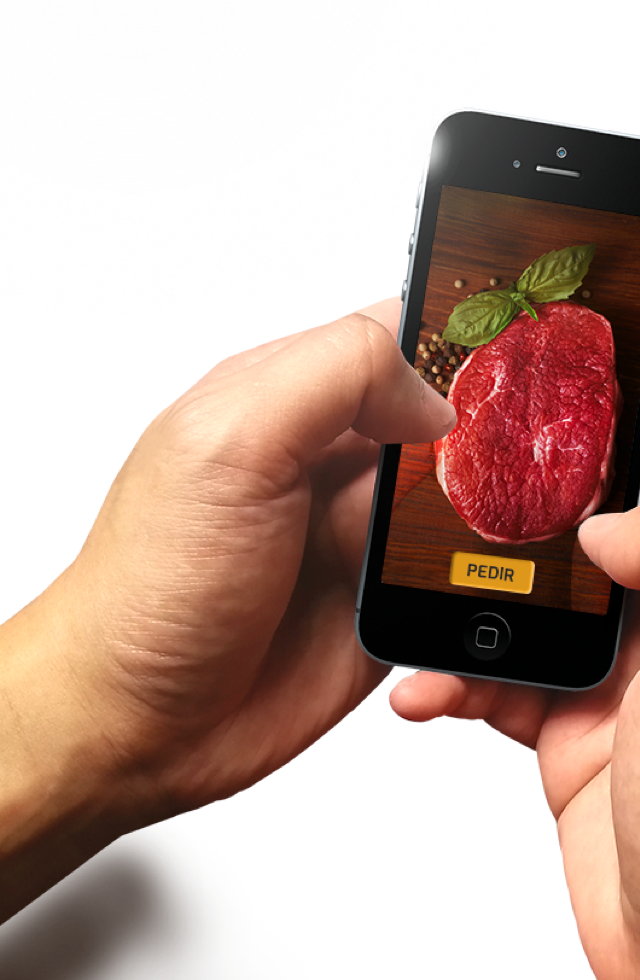
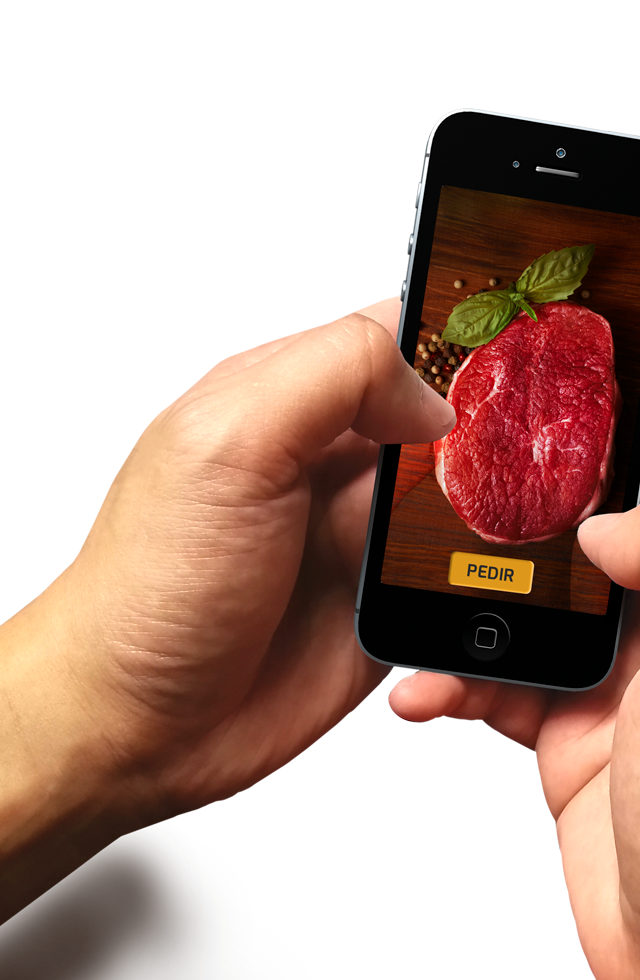
responsive seccion app

diff --git a/css/estilos.css b/css/estilos.css
@@ -1,2 +1,2 @@
 @import 'https://fonts.googleapis.com/css?family=Glegoo:400,700';
-body{font-family:'Glegoo';font-size:16px;font-weight:400}.rojo{border:solid 1px #f00}.naranja{border:solid 1px #ffa500}.verde{border:solid 1px #008000}.rosado{border:solid 1px #ffc0cb}.blanco{border:solid 2px #fff}.celeste{border:solid 1px #0ff}.azul{border:solid 1px #00f}.alfa{border:solid .1px rgba(0,0,0,0)}.textRes{color:#b11f24}.textCerdo{color:#ca8f88}.textOran{color:#f9a81a}.textGris{color:#8c8c8c}.centrar{display:flex;justify-content:center}.sepUp{margin-top:1rem}.subti2{color:#f9a81a;font-size:2.5rem;font-weight:700}.subti3{color:#f9a81a;font-size:1.5rem;font-weight:700}.subtiNegro{color:#000;font-size:3rem;font-family:'Glegoo';font-weight:700;margin:0}.sombraNav{box-shadow:0 13px 20px 0 rgba(0,0,0,0.5);width:100vw;background-color:#fff}.sombra{box-shadow:0 5px 4px 0 rgba(0,0,0,0.5)}.sombraText{text-shadow:0 2px 2px #000}.btnEntrar{border-radius:20px;background-color:#f9a81a;padding:.6rem 2.1rem}.navW{margin-left:1rem}.navbar-fixed{margin:0}.navmenu{width:100%;box-shadow:none;background-color:#fff}.navmenu ul a{color:#a7a7a7}.navmenu ul a:hover{background-color:#f9a81a;color:#fff}.logoNav{width:189px}.logo img{width:118px}.resumen{font-size:1rem;font-family:'Glegoo';color:#808080;line-height:normal}.fpresentacion{background-image:url("../img/mobile/fondoinicio@2x.jpg");background-position:center;background-repeat:no-repeat;background-size:cover;width:100vw}.carHead{background-image:url("../img/mobile/carHeadMobile@2x.jpg");background-position:center;background-repeat:no-repeat;background-size:cover;width:100vw;height:580px}.textCarnivery{margin-top:280px;text-align:center;color:#fff}.madera{background-image:url("../img/mobile/maderaBlanca@2x.jpg");background-position:center;background-repeat:no-repeat;background-size:cover;width:100vw;height:auto}.cajaBlanca{background-color:#fff;border-radius:20px}.trinche{height:850px;background-image:url("../img/trinche.png");background-repeat:no-repeat;background-size:contain;margin-top:6rem}.fondoFinde{background-image:url("../img/mobile/fFinde.jpg");background-position:center;background-repeat:no-repeat;background-size:cover;width:100vw;height:592px;display:flex;align-items:center}.logoFinde{background-image:url("../img/svg/lFinde.svg");background-position:center,center;background-repeat:no-repeat;width:80vw;height:227px}.iphone{background-image:url("../img/mobile/iPhoneCarnivery@2x.png");background-position:center;background-repeat:no-repeat;background-size:cover;height:490px}.barraNegra{background-color:#000;color:#fff;font-size:1.5rem;text-align:center;line-height:52px;width:80vw;height:52px}.icoIndustry{width:35vw}.pieMP{background-color:#e0e0e0 !important}.pieMP a{color:#000;font-size:1rem;line-height:3rem}@media screen and (min-width:768px){.fpresentacion{background-image:url("../img/fInicio.jpg")}.carHead{background-image:url("../img/fCarnivery.jpg")}.textCarnivery{margin-top:400px}#headDia{margin-top:5rem}#logoDia{padding:0}.madera{background-image:url("../img/maderaG.jpg")}.fondoFinde{background-image:url("../img/fondoFinde.jpg")}.logoFinde{position:absolute;right:50px;width:300px;margin-top:50px}#textFinde{position:absolute;bottom:-1750px;right:50px;width:300px}}@media screen and (min-width:992px){#logoDia{width:170px}.navW{margin-left:0;border:solid 1px #f00}.sizeAnima{width:80px}.cont90{width:90%}.logoFinde{right:150px}#textFinde{bottom:-2000px;right:50px;width:500px}}
+body{font-family:'Glegoo';font-size:16px;font-weight:400}.rojo{border:solid 1px #f00}.naranja{border:solid 1px #ffa500}.verde{border:solid 1px #008000}.rosado{border:solid 1px #ffc0cb}.blanco{border:solid 2px #fff}.celeste{border:solid 1px #0ff}.azul{border:solid 1px #00f}.alfa{border:solid .1px rgba(0,0,0,0)}.textRes{color:#b11f24}.textCerdo{color:#ca8f88}.textOran{color:#f9a81a}.textGris{color:#8c8c8c}.centrar{display:flex;flex-wrap:wrap;justify-content:center}.centrar2{display:flex;justify-content:space-around}.sepUp{margin-top:1rem}.subti2{color:#f9a81a;font-size:2.5rem;font-weight:700}.subti3{color:#f9a81a;font-size:1.5rem;font-weight:700}.subtiNegro{color:#000;font-size:3rem;font-family:'Glegoo';font-weight:700;margin:0}.sombraNav{box-shadow:0 13px 20px 0 rgba(0,0,0,0.5);width:100vw;background-color:#fff}.sombra{box-shadow:0 5px 4px 0 rgba(0,0,0,0.5)}.sombraText{text-shadow:0 2px 5px rgba(23,23,23,0.69)}.btnEntrar{border-radius:20px;background-color:#f9a81a;padding:.6rem 2.1rem}.navW{margin-left:1rem}.navbar-fixed{margin:0}.navmenu{width:100%;box-shadow:none;background-color:#fff}.navmenu ul a{color:#a7a7a7}.navmenu ul a:hover{background-color:#f9a81a;color:#fff}.logoNav{width:189px}.logo img{width:118px}.resumen{font-size:1rem;font-family:'Glegoo';color:#808080;line-height:normal}.fpresentacion{background-image:url("../img/mobile/fondoinicio@2x.jpg");background-position:center;background-repeat:no-repeat;background-size:cover;width:100vw}.carHead{background-image:url("../img/mobile/carHeadMobile@2x.jpg");background-position:center;background-repeat:no-repeat;background-size:cover;width:100vw;height:580px}.textCarnivery{margin-top:280px;text-align:center;color:#fff}.madera{background-image:url("../img/mobile/maderaBlanca@2x.jpg");background-position:center;background-repeat:no-repeat;background-size:cover;width:100vw;height:auto}.cajaBlanca{background-color:#fff;border-radius:20px}.trinche{height:850px;background-image:url("../img/trinche.png");background-repeat:no-repeat;background-size:contain;margin-top:6rem}.fondoFinde{background-image:url("../img/mobile/fFinde.jpg");background-position:center;background-repeat:no-repeat;background-size:cover;width:100vw;height:592px;display:flex;align-items:center}.logoFinde{background-image:url("../img/svg/lFinde.svg");background-position:center,center;background-repeat:no-repeat;width:80vw;height:227px}.iphone{background-image:url("../img/mobile/iPhoneCarnivery@2x.png");background-repeat:no-repeat;background-size:cover;height:490px}.textApp{font-size:.8rem}#logoIndustry{background-image:url("../img/logoIndustry.png");background-repeat:no-repeat;background-size:cover;height:220px;width:70%;margin:0 auto}.barraNegra{background-color:#000;color:#fff;font-size:1.5rem;text-align:center;line-height:52px;width:100vw;height:52px}.icoRes{background-image:url("../img/svg/icoRes.svg");background-repeat:no-repeat;height:140px;width:100%}.icoCerdo{background-image:url("../img/svg/icoCerdo.svg");background-repeat:no-repeat;height:140px;width:100%}.icoPollo{background-image:url("../img/svg/icoPollo.svg");background-repeat:no-repeat;height:140px;width:100%}.icoCharcu{background-image:url("../img/svg/icoCharcu.svg");background-repeat:no-repeat;height:140px;width:100%}.pieMP{background-color:#e0e0e0 !important}.pieMP a{color:#000;font-size:1rem;line-height:3rem}@media screen and (max-width:760px){.cajaiPhone{background-color:rgba(255,255,255,0.57)}}@media screen and (min-width:768px){.fpresentacion{background-image:url("../img/fInicio.jpg")}.carHead{background-image:url("../img/fCarnivery.jpg")}.textCarnivery{margin-top:400px}#headDia{margin-top:5rem}#logoDia{padding:0}.madera{background-image:url("../img/maderaG.jpg")}.fondoFinde{background-image:url("../img/fondoFinde.jpg")}.logoFinde{position:absolute;right:50px;width:300px;margin-top:50px}#textFinde{position:absolute;bottom:-1750px;right:50px;width:300px}.cajaiPhone{background-color:#fff;border-radius:1rem}.iphone{background-image:url("../img/iPhone.png");background-size:contain}#logoIndustry{background-size:cover;height:300px;width:50%}}@media screen and (min-width:992px){#logoDia{width:170px}.navW{margin-left:0;border:solid 1px #f00}.sizeAnima{width:80px}.cont90{width:90%}.logoFinde{right:150px}#textFinde{bottom:-2000px;right:50px;width:500px}#logoIndustry{width:30%;height:270px}}

diff --git a/index.html b/index.html
@@ -129,60 +129,61 @@
         </div>
       </div>
     </div><!-- SECCION APP-->
-    <div class="main-container">
-      <div class="row">
-        <h2 class="col s12 textOran">Y LO MEJOR DE TODO!</h2>
-        <p class="col s12 textGris">Tus cortes están al alcance de un solo click</p>
-      </div>
-    </div>
     <div class="main-container madera">
-      <div class="iphone"></div>
-      <div class="container">
-        <div class="col s12 center">
-          <p>Con nuestra APP podrás hacer tus pedidos desde la comodidad de tu hogar, o dónde quiera que estés! <br> Descarga la app Carnivery tanto para Android como para iOS.</p>
+      <div class="row">
+        <div class="col m6 l7 iphone hide-on-small-only"></div>
+        <div class="col m5 l4 sombra sepUp cajaiPhone"><!-- CONTIENE la caja blanca-->
+          <h3 class="col s12 textOran sombraText">Y LO MEJOR DE TODO!</h3>
+          <p class="col s6 m12 textApp">
+            Tus cortes están al alcance de un solo click <br>
+            Con nuestra APP podrás hacer tus pedidos desde la comodidad de tu hogar, o dónde quiera que estés! <br> Descarga la app Carnivery tanto para Android como para iOS.
+          </p>
+          <div class="row center">
+            <div class="col s12 centrar2"><img src="img/svg/gPlay.svg" alt="" width="50%"><img src="img/svg/appStore.svg" alt="" width="50%"></div>
+            <p class="col s12 textApp">O si prefieres puedes llamarnos a nuestra línea exclusiva de atención a cliente:</p>
+            <div class="col s12 center"><img src="img/svg/1800.svg" alt="" width="75%"></div>
+          </div>
         </div>
-      </div>
-      <div class="row center">
-        <div class="col s6"></div><img src="img/svg/gPlay.svg" alt="">
-        <div class="col s6"></div><img src="img/svg/appStore.svg" alt="">
-      </div>
-    </div>
-    <div class="main-container">
-      <div class="container center">
-        <p>O si prefieres puedes llamarnos a nuestra línea exclusiva de atención a cliente:</p>
-        <div class="center"><img src="img/svg/1800.svg" alt=""></div>
+        <div class="iphone hide-on-med-and-up"></div>
       </div>
     </div><!-- SECCION LINEA INDUSTRY-->
     <div class="main-container fpresentacion alfa">
-      <div class="row center"><img src="img/logoIndustry.png" alt="" width="70%" class="sombra"></div>
-      <div class="row center">
-        <p class="col s12">Procesamos, comercializamos y desarrollamos productos cárnicos inocuos de alta calidad, al alcance de todos los segmentos del sector HORECA e industrial en Ecuador</p>
-      </div>
-      <div class="row center">
-        <botton class="btnEntrar">entrar</botton>
+      <div class="container">
+        <div id="logoIndustry" class="sombra"></div>
+        <div class="row center">
+          <p class="col s12">Procesamos, comercializamos y desarrollamos productos cárnicos inocuos de alta calidad, al alcance de todos los segmentos del sector HORECA e industrial en Ecuador</p>
+        </div>
+        <div class="row center">
+          <botton class="btnEntrar">entrar</botton>
+        </div>
       </div>
     </div><!-- SECCION LINEAS DE PRODUCTOS-->
-    <div class="main-container">
-      <div class="row barraNegra">
-        <p>LINEAS DE PRODUCTOS</p>
+    <div class="main-container barraNegra">
+      <p>LINEAS DE PRODUCTOS</p>
+      <div class="container">
+        <div class="row center">
+          <div class="col s12 m6">
+            <div class="col s6 m6">
+              <div class="icoRes"></div>
+              <p>Res  </p>
+            </div>
+            <div class="col s6 m6">
+              <div class="icoCerdo"></div>
+              <p>Cerdo  </p>
+            </div>
+          </div>
+          <div class="col s12 m6">
+            <div class="col s6 m6">
+              <div class="icoPollo"></div>
+              <p>Pollo  </p>
+            </div>
+            <div class="col s6 m6">
+              <div class="icoCharcu"></div>
+              <p>Charcutería     </p>
+            </div>
+          </div>
+        </div>
       </div>
-      <div class="row rojo">
-        <div class="col s6 rosado center"><img src="img/svg/icoRes.svg" alt="" width="90%">
-          <p>RES</p>
-        </div>
-        <div class="col s6 rosado center"> <img src="img/svg/icoCerdo.svg" alt="" width="90%">
-          <p>CERDO</p>
-        </div>
-      </div>
-      <div class="row verde">
-        <div class="col s6 rosado center"><img src="img/svg/icoPollo.svg" alt="" width="90%">
-          <p>POLLO</p>
-        </div>
-        <div class="col s6 rosado center"> <img src="img/svg/icoCharcu.svg" alt="" width="90%">
-          <p>CHARCUTERÍA</p>
-        </div>
-      </div>
-      <div class="divider"></div>
     </div><!-- SECCION FICHAS FOOD SERVICE INOCUIDAD-->
     <div class="main-container">
       <div class="container">
